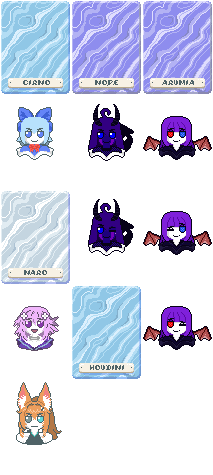
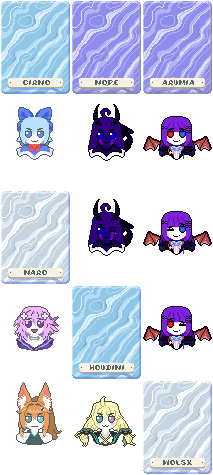
Additions & Changes
Added retextures for Ride The Bus, Blackboard, Wild card and Nebula Deck.

Other minor adjustments.

diff --git a/README.md b/README.md
@@ -15,15 +15,15 @@ DaemonTsun's art contributions are public domain - Some memes or pictures are no
 
 **Cirno_TV & Friends** currently:
 - Retextures:
-  - 76 Jokers (Some get filtered/altered by the Mature Reference setting depending on what it is set to.)
+  - 78 Jokers (Some get filtered/altered by the Mature Reference setting depending on what it is set to.)
   - All Blind Chips
   - All Seals
   - All Planet Cards
   - 11 Booster Packs
   - 6 Tarot Cards
   - 7 Spectral Cards
-  - 3 Decks
-  - 1 Enhancement
+  - 4 Decks
+  - 2 Enhancements
   - The title screen
 
 - Renames & Alters Descriptions Of:
